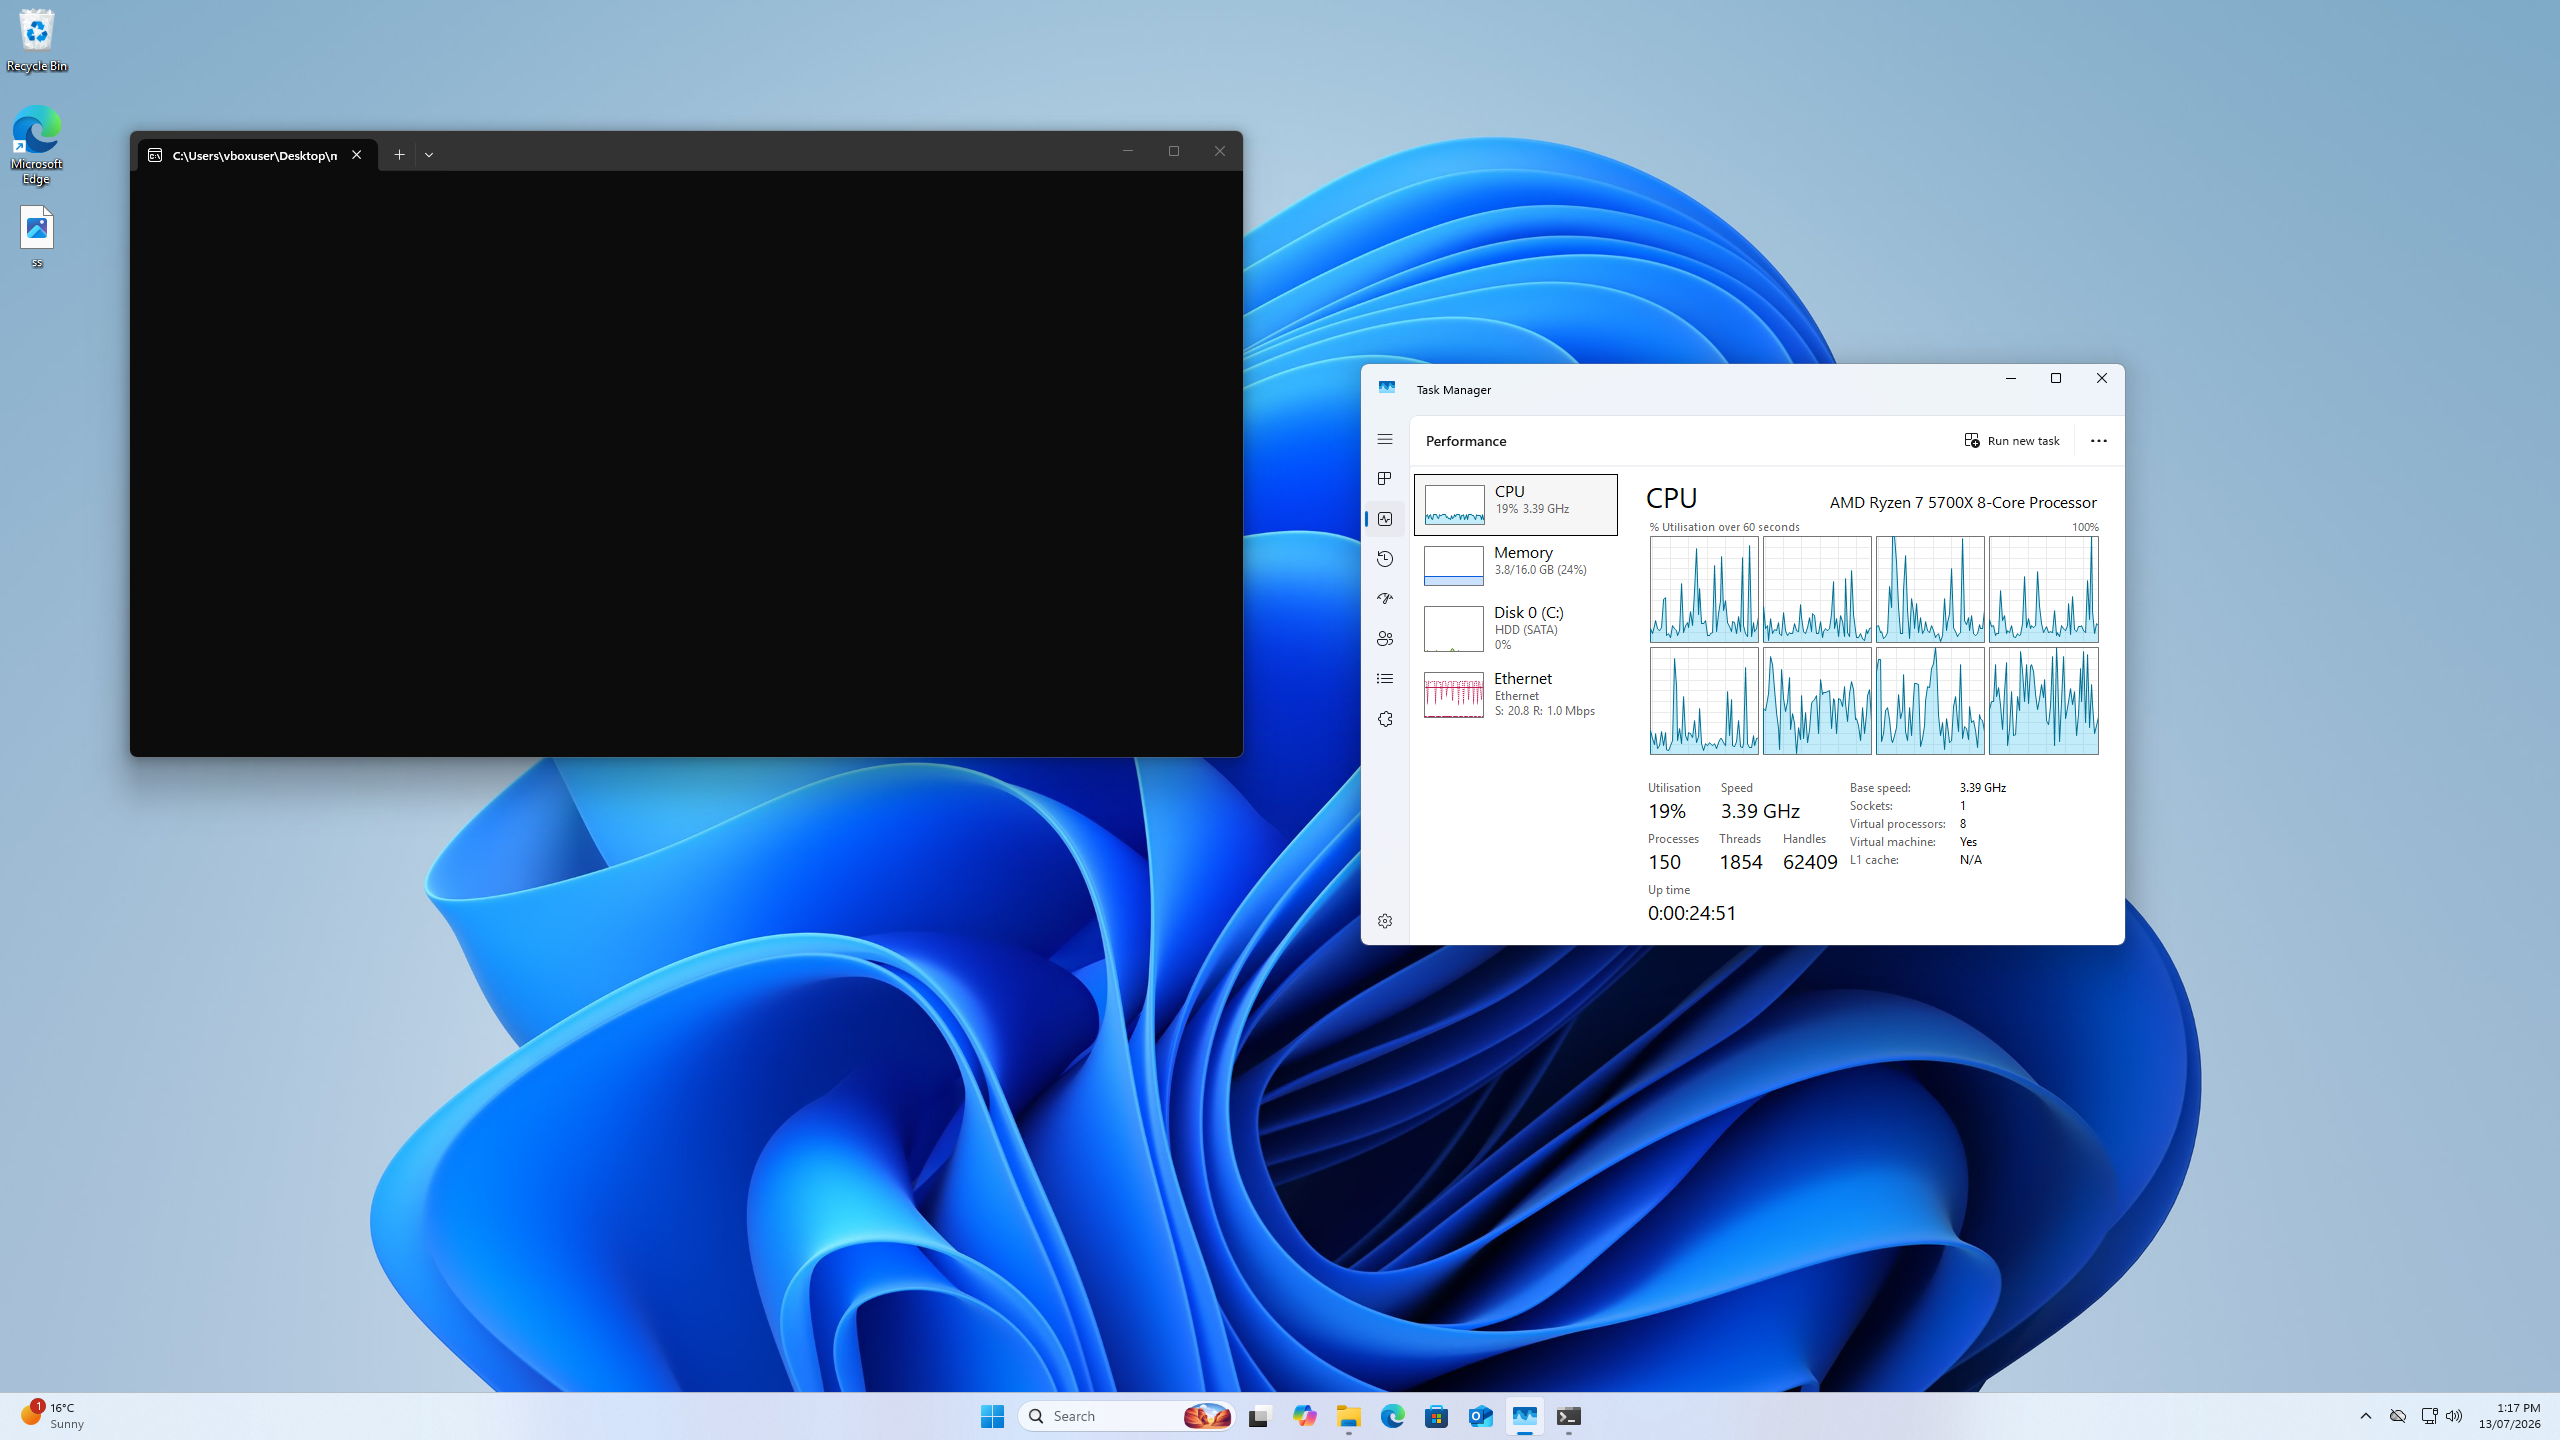
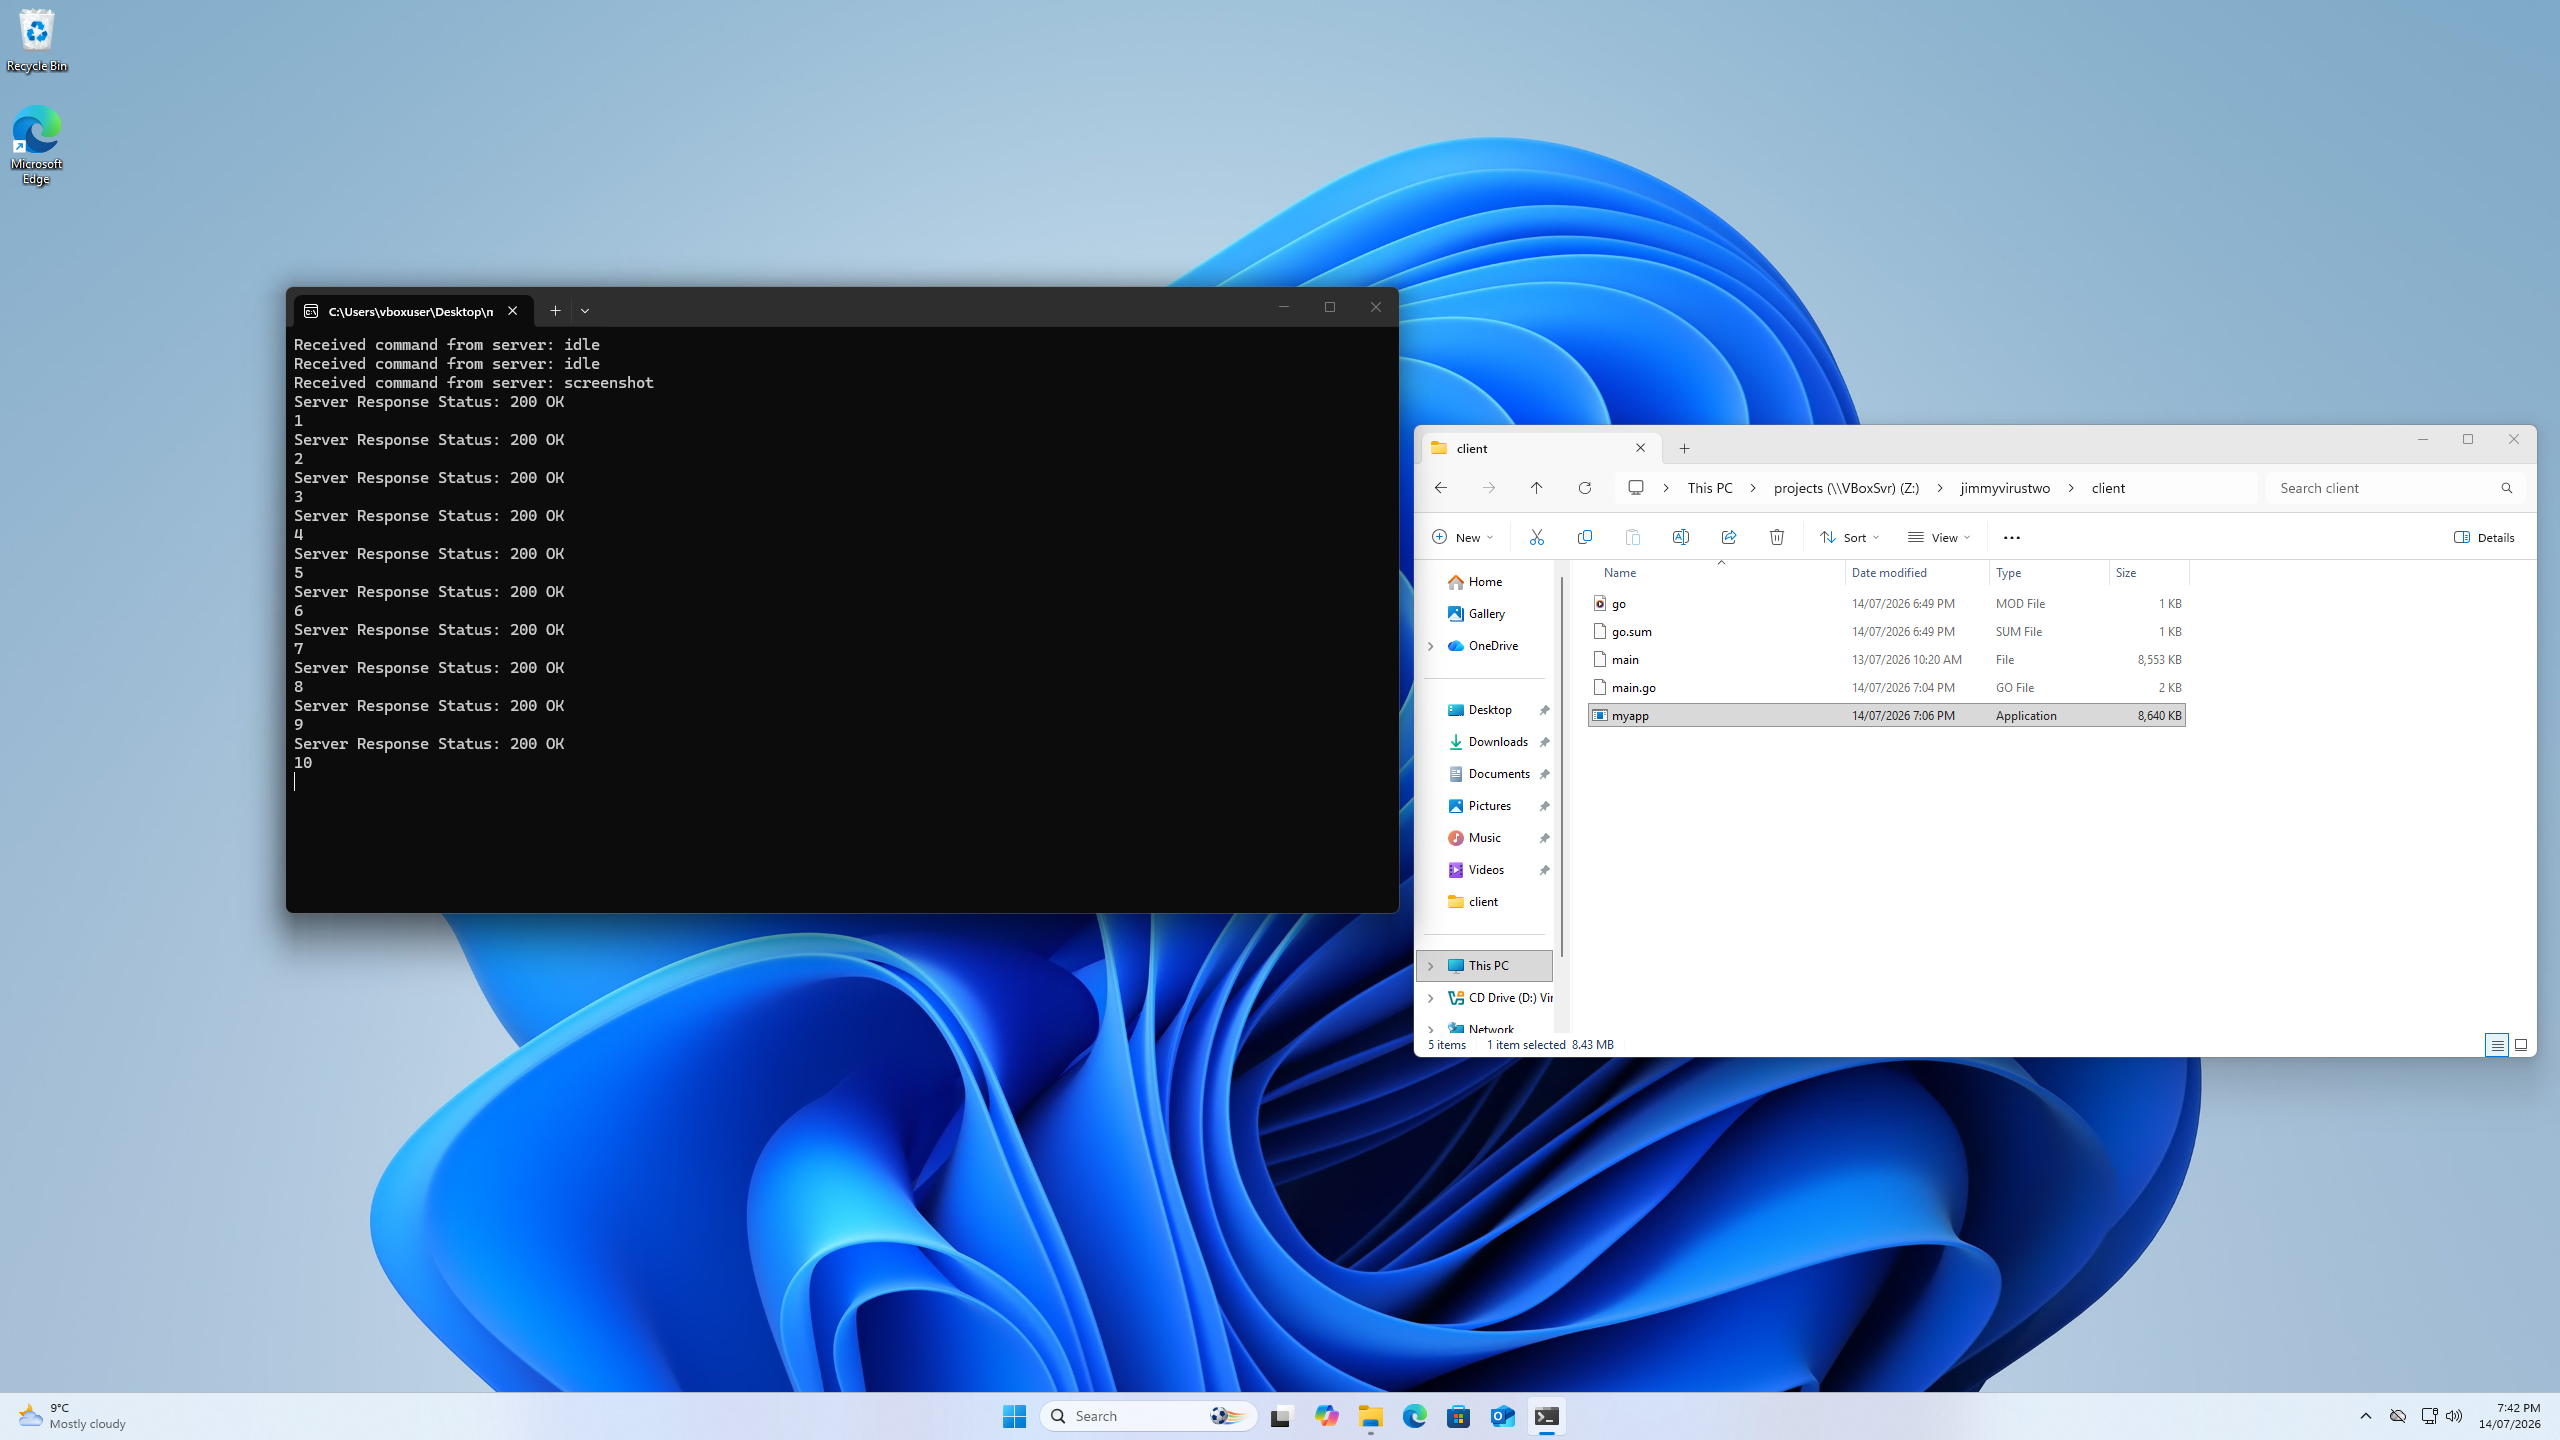
made it actually work

diff --git a/client/main.go b/client/main.go
@@ -3,6 +3,7 @@ package main
 import (
 	"fmt"
 	"image/png"
+	"io"
 	"net/http"
 	"os"
 	"time"
@@ -10,7 +11,7 @@ import (
 	"github.com/vova616/screenshot"
 )
 
-var serverIp string = "http://10.0..2.2:10000"
+var serverIp string = "http://10.0.2.2:10000"
 var userInput string = ""
 
 func ss() {
@@ -60,21 +61,43 @@ func sendFile(filePath string, mediaType string) string {
 	return (output)
 }
 
+func fetchCommand() string {
+
+	resp, err := http.Get(serverIp + "/get-command")
+	if err != nil {
+		fmt.Println("Error connecting to server:", err)
+		return "idle"
+	}
+
+	defer resp.Body.Close()
+
+	bodyBytes, err := io.ReadAll(resp.Body)
+	if err != nil {
+		fmt.Println("Error reading response:", err)
+		return "idle"
+	}
+
+	return string(bodyBytes)
+}
+
 func main() {
 	for true {
-		http.Get(serverIp + "/get-command")
+		userInput = fetchCommand()
 		time.Sleep(2 * time.Second)
-
+		fmt.Printf("Received command from server: %s\n", userInput)
 		if userInput != "idle" {
 			if userInput == "screenshot" {
-				index := 0
-				for index > 120 {
+				index := 1
+				for index < 12 {
 					ss()
 					output := sendFile("./ss.webp", "image")
 					fmt.Println(output)
 					time.Sleep(500 * time.Millisecond)
+					fmt.Println(index)
+					index++
 				}
 			}
+			// if userInput == start
 		} else {
 			time.Sleep(5 * time.Second)
 		}

diff --git a/server/main.go b/server/main.go
@@ -14,7 +14,7 @@ import (
 var mutex sync.Mutex
 var userInput string = ""
 
-func uploadHandler(w http.ResponseWriter, r *http.Request, index int) {
+func uploadHandler(w http.ResponseWriter, r *http.Request) {
 	// 1. Get the custom instruction from the HTTP header
 	mediaType := r.Header.Get("X-Media-Type")
 	fileName := r.Header.Get("X-File-Name")
@@ -40,14 +40,15 @@ func uploadHandler(w http.ResponseWriter, r *http.Request, index int) {
 
 func commandHandler(w http.ResponseWriter, r *http.Request) {
 	mutex.Lock()
-	defer mutex.Unlock()
-
-	if userInput == "" {
+	if userInput == "" || userInput == "idle" {
 		fmt.Fprint(w, "idle")
-	} else {
-		fmt.Fprint(w, userInput)
-		userInput = ""
 	}
+	if userInput == "ss" {
+		fmt.Fprint(w, "screenshot")
+		userInput = ""
+		fmt.Println("sending screenshot command")
+	}
+	defer mutex.Unlock()
 }
 
 func reveiveInput() {
@@ -55,7 +56,7 @@ func reveiveInput() {
 
 	for scanner.Scan() {
 		mutex.Lock()
-		userInput := scanner.Text()
+		userInput = scanner.Text()
 		mutex.Unlock()
 		fmt.Println("Queued command:", userInput)
 	}
@@ -67,6 +68,8 @@ func reveiveInput() {
 }
 
 func main() {
+	http.HandleFunc("/upload", uploadHandler)
+	http.HandleFunc("/get-command", commandHandler)
 
 	go reveiveInput()
 	fmt.Println("Receiver running on port 10000. Waiting for media...")